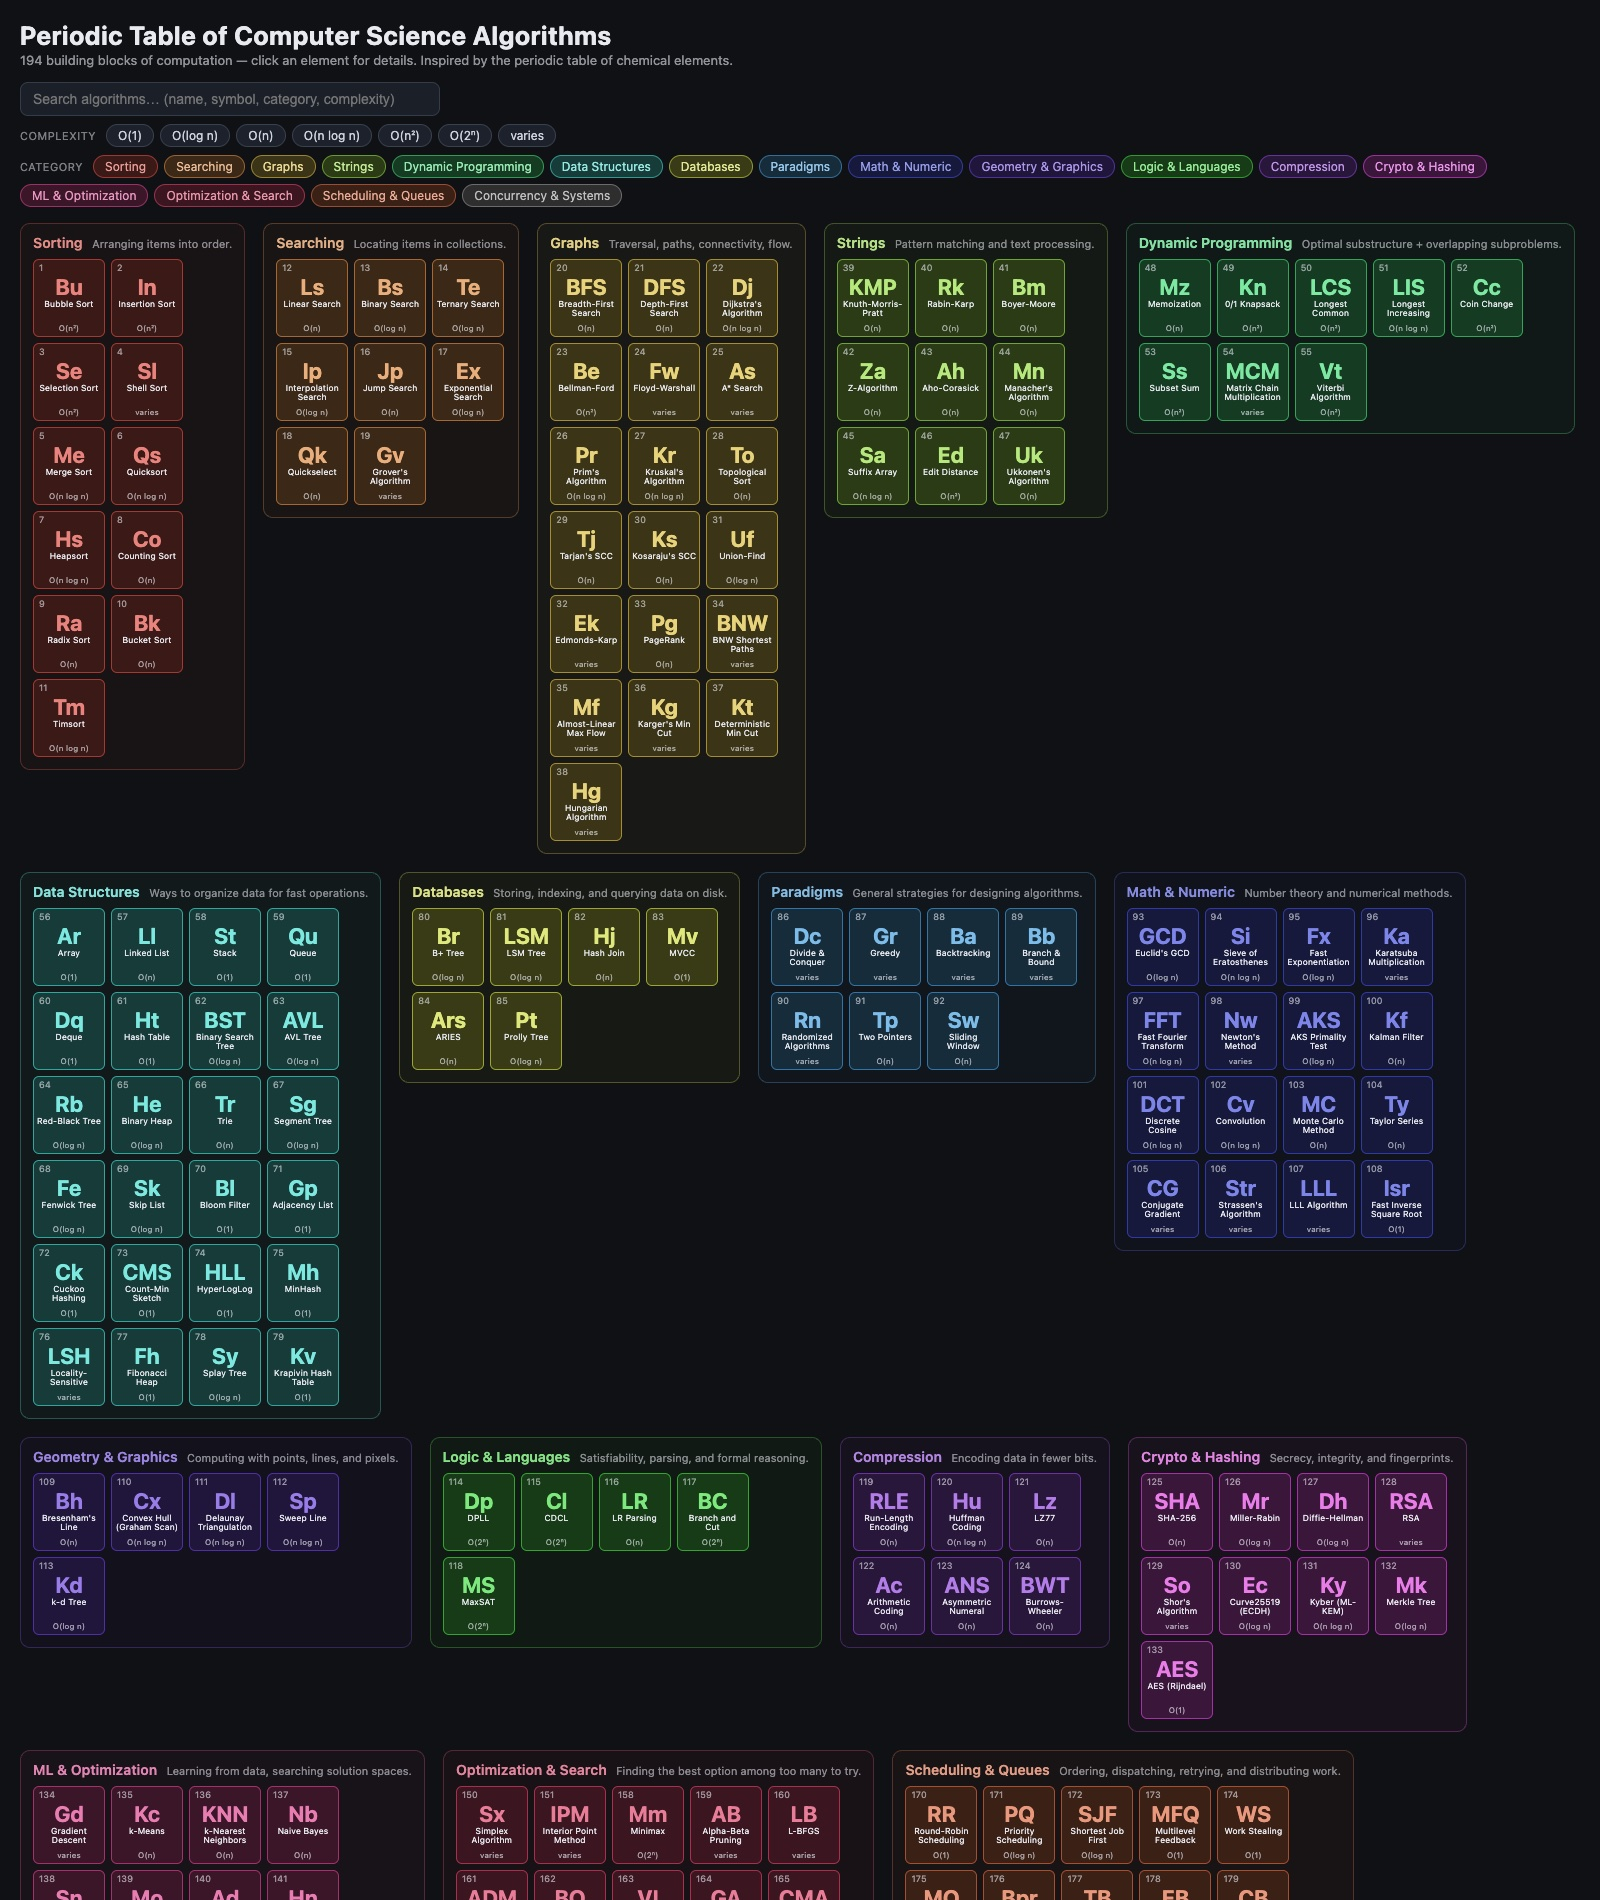
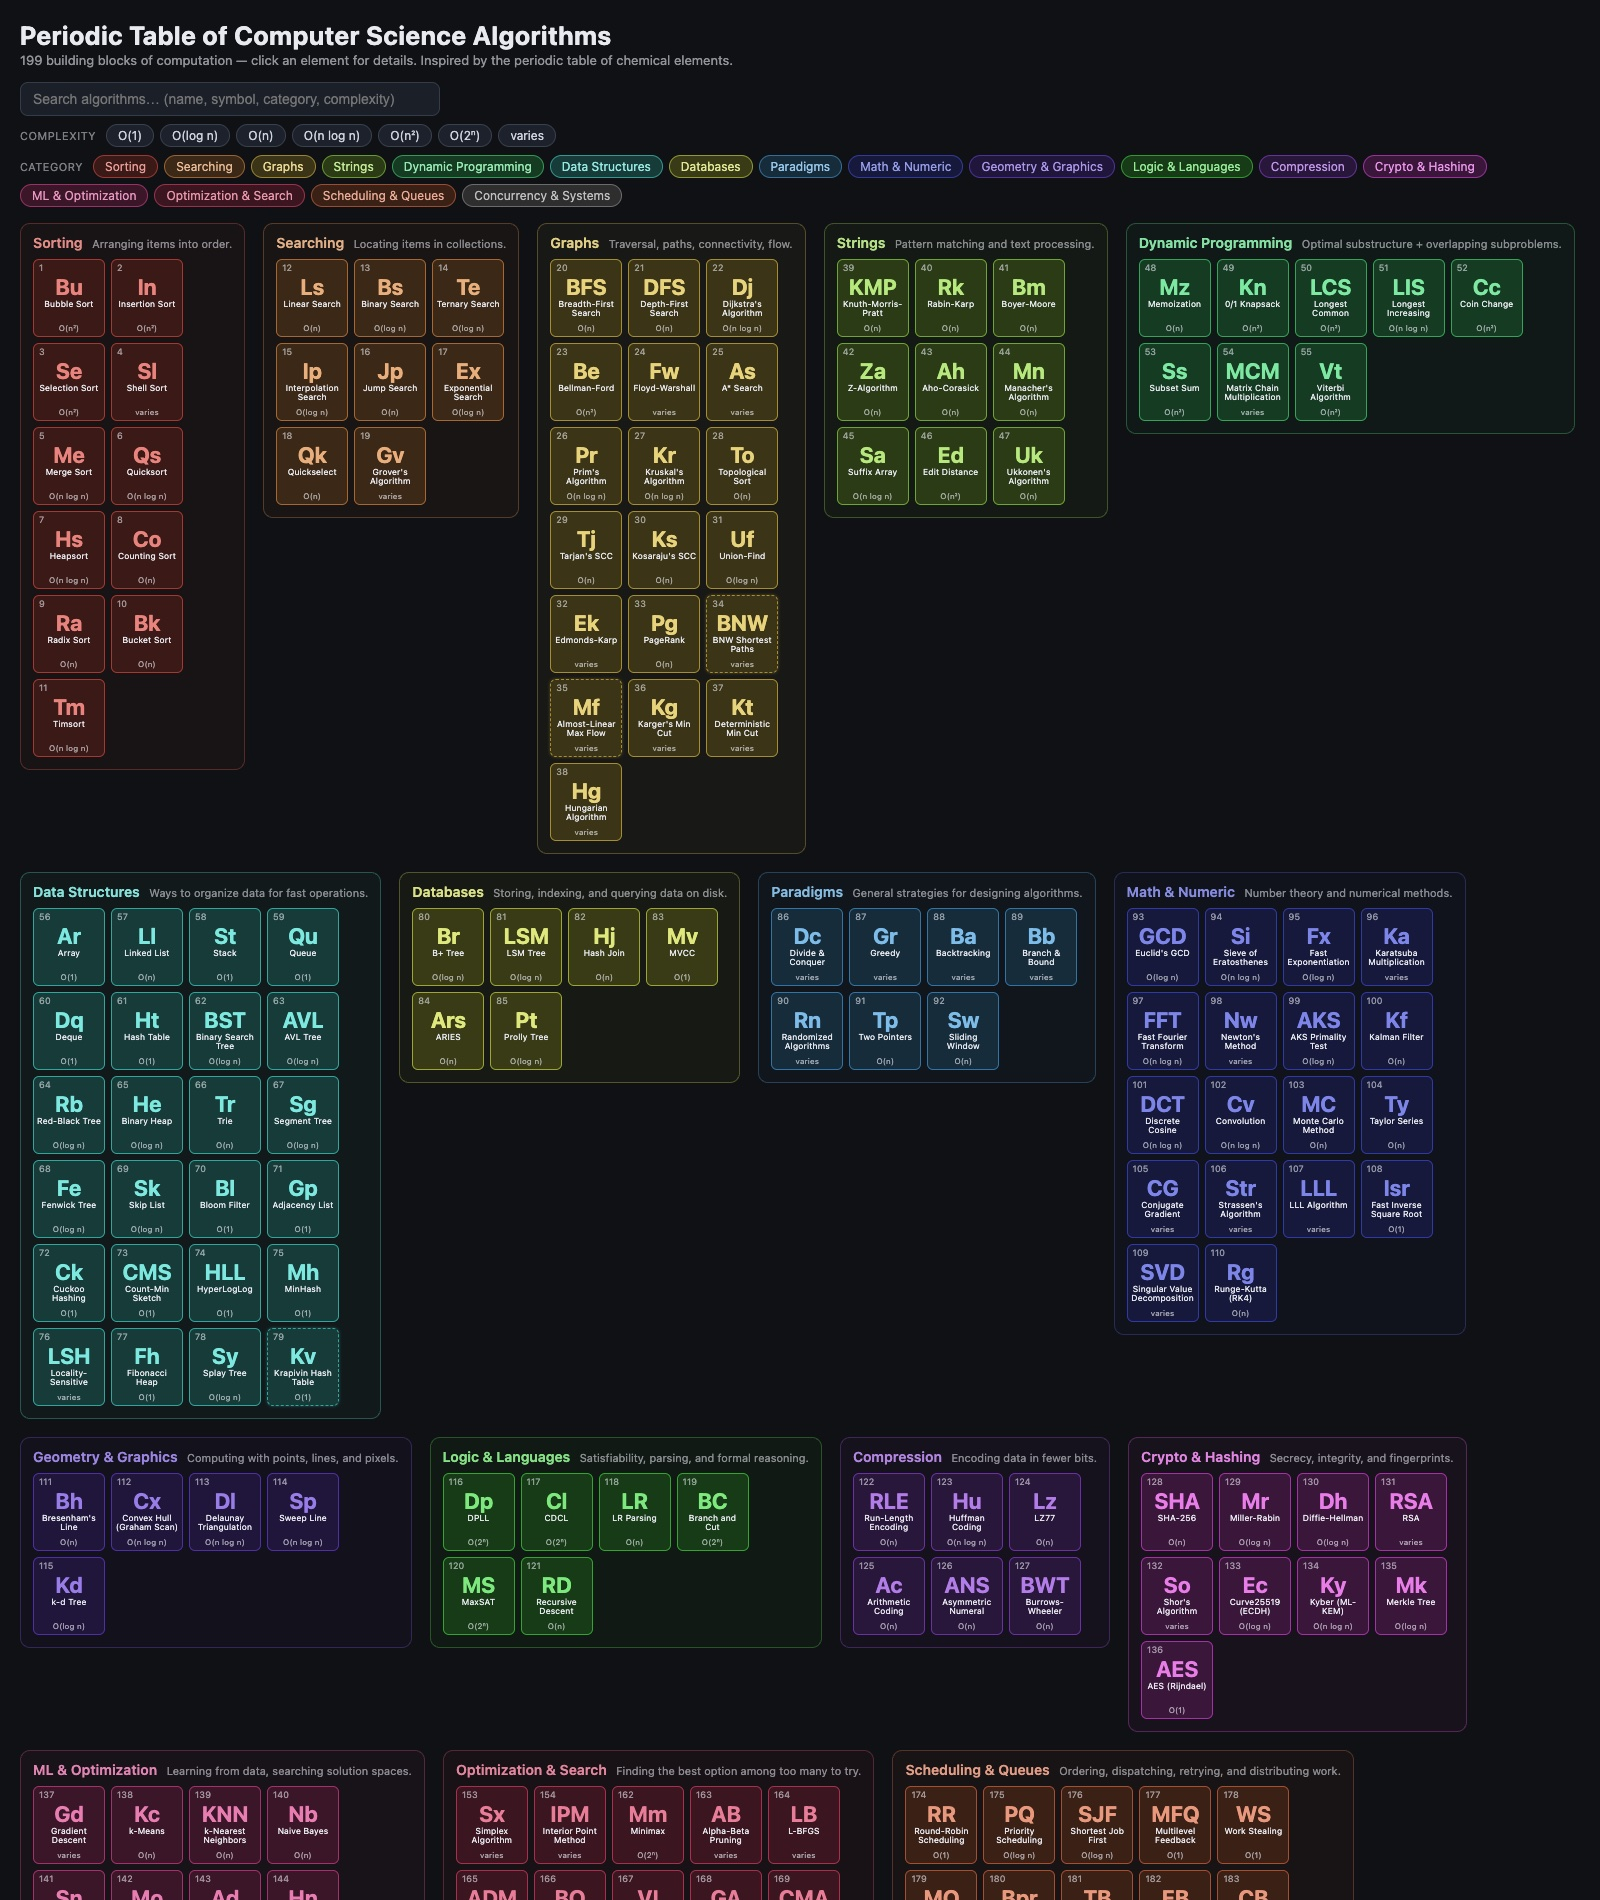
feat(periodic-table-cs): drop VS, add SVD/SVM/EM/RK4/RD/Gossip, synthetic styling for 2022+ elements

Changed region(s): [[0.6875, 0.6521, 0.8125, 0.7142], [0.3125, 0.8074, 0.375, 0.8695]]

diff --git a/education-periodic-table-computer-science-algorithms/index.html b/education-periodic-table-computer-science-algorithms/index.html
@@ -81,6 +81,18 @@ header .subtitle {
 .tile.dim { opacity: 0.18; }
 .tile.hit { box-shadow: 0 0 0 2px hsl(var(--hue) 90% 65%); }
 .tile.gray.hit { box-shadow: 0 0 0 2px hsl(0 0% 80%); }
+.tile.synthetic { border-style: dashed; animation: synthPulse 2.6s ease-in-out infinite; }
+.tile.synthetic.dim { animation: none; }
+@keyframes synthPulse {
+  0%, 100% { box-shadow: 0 0 3px hsl(var(--hue) 85% 60% / 0.3); }
+  50% { box-shadow: 0 0 11px hsl(var(--hue) 85% 62% / 0.75); }
+}
+.card-syn {
+  display: inline-block; margin: 4px 0 0 6px;
+  font-size: 11px; padding: 2px 8px; border-radius: 10px;
+  border: 1px dashed hsl(var(--hue) 70% 60%);
+  color: hsl(var(--hue) 75% 75%);
+}
 #controls { margin: 0 0 16px; display: flex; flex-direction: column; gap: 8px; }
 #search {
   background: #1a1f28;
@@ -211,7 +223,7 @@ header .subtitle {
       <div class="card-symbox"><span class="num"></span><span class="card-sym"></span></div>
       <div class="card-title">
         <h3></h3>
-        <span class="card-cat"></span>
+        <span class="card-cat"></span><span class="card-syn" hidden>⚛ synthetic — recent discovery, stability unproven</span>
       </div>
       <div class="card-nav">
         <button id="card-prev" title="Previous element">◀</button>
@@ -805,7 +817,7 @@ const ELEMENTS = [
     complexityClass: "O(n²)",
     description: "Finds the single most likely sequence of hidden states behind a sequence of observations: dynamic programming keeps, for each state at each step, the best path probability and a backpointer. Invented for decoding convolutional codes; it became the workhorse of HMMs in speech and biology.",
     uses: ["Convolutional code decoding (modems, deep-space links)", "HMM decoding in speech recognition and part-of-speech tagging", "Gene finding and sequence labeling"],
-    related: ["Mz", "Nb", "Ed"],
+    related: ["Mz", "Nb", "Ed", "EM"],
     pseudocode: "viterbi(obs, states):\n  V[0][s] = π(s)·emit(s, obs[0])\n  for t = 1 .. T-1, each state s:\n    V[t][s] = max over p of\n      V[t-1][p]·trans(p,s)·emit(s, obs[t])\n    back[t][s] = argmax p\n  follow backpointers from best final state",
   },
   {
@@ -1324,6 +1336,26 @@ const ELEMENTS = [
     pseudocode: "invSqrt(x):\n  i = bitsOf(x)\n  i = 0x5f3759df - (i >> 1)  // magic guess\n  y = floatOf(i)\n  y = y · (1.5 - 0.5·x·y·y)  // one Newton step\n  return y",
   },
   {
+    symbol: "SVD", name: "Singular Value Decomposition", category: "math",
+    year: "1873", inventor: "Beltrami & Jordan (numerics: Golub & Kahan 1965)",
+    time: { best: "O(mn²)", average: "O(mn²)", worst: "O(mn²)" }, space: "O(mn)",
+    complexityClass: "varies",
+    description: "Factors any matrix into rotation · scaling · rotation (UΣVᵀ), revealing its action as stretching along orthogonal axes ranked by importance. Truncating to the top k singular values gives the provably best low-rank approximation — which is PCA, latent semantic analysis, and the heart of the Netflix-prize recommenders, all in one decomposition.",
+    uses: ["PCA and dimensionality reduction", "Recommender systems via low-rank factorization", "Pseudo-inverse, least squares, and image compression"],
+    related: ["Pg", "CG", "Str"],
+    pseudocode: "svd(A):  // Golub-Kahan\n  bidiagonalize A with Householder\n    reflections\n  iterate QR-style on the bidiagonal\n    until off-diagonal ≈ 0\n  A = U · Σ · Vᵀ\nPCA: center data; top k right singular\n  vectors = principal components",
+  },
+  {
+    symbol: "Rg", name: "Runge-Kutta (RK4)", category: "math",
+    year: "1901", inventor: "Carl Runge, Wilhelm Kutta",
+    time: { best: "O(1) per step", average: "4 evals per step", worst: "O(1) per step" }, space: "O(1)",
+    complexityClass: "O(n)",
+    description: "Advances an ordinary differential equation by sampling the slope four times across each step — beginning, two midpoints, end — and blending them 1:2:2:1, achieving fourth-order accuracy where naive Euler gets first. The default workhorse for simulating anything that evolves: orbits, weather, circuits, game physics.",
+    uses: ["ODE integration in scientific computing", "Game and robotics physics engines", "Orbit propagation and chemical kinetics"],
+    related: ["Nw", "Ty", "Kf"],
+    pseudocode: "rk4(f, t, y, h):\n  k1 = f(t, y)\n  k2 = f(t + h/2, y + h·k1/2)\n  k3 = f(t + h/2, y + h·k2/2)\n  k4 = f(t + h, y + h·k3)\n  return y + (h/6)(k1 + 2k2 + 2k3 + k4)",
+  },
+  {
     symbol: "Bh", name: "Bresenham's Line", category: "geometry",
     year: "1962", inventor: "Jack Bresenham",
     time: { best: "O(n)", average: "O(n)", worst: "O(n)" }, space: "O(1)",
@@ -1422,6 +1454,16 @@ const ELEMENTS = [
     uses: ["Configuration and dependency optimization", "Planning with hard rules and soft preferences", "Probabilistic inference (MPE) and program repair"],
     related: ["Cl", "Dp", "Bb"],
     pseudocode: "core-guided MaxSAT:\n  while SAT solver says UNSAT(hard + soft):\n    core = extract unsat core\n    relax: allow one violation in core\n      (add blocking variables, bound them)\n  return model; violations = optimum",
+  },
+  {
+    symbol: "RD", name: "Recursive Descent Parsing", category: "logic",
+    year: "1960s", inventor: "ALGOL compiler lineage",
+    time: { best: "O(n)", average: "O(n)", worst: "O(n) (LL grammars)" }, space: "O(depth)",
+    complexityClass: "O(n)",
+    description: "One hand-written function per grammar rule, each consuming tokens and calling the functions for its sub-rules — the parser's structure is the grammar. Table-driven LR generators won the textbooks, but recursive descent won production: GCC, Clang, V8, and rustc all parse this way, because hand-written parsers give the best error messages.",
+    uses: ["Production compiler front ends (GCC, Clang, V8, rustc)", "JSON and config parsers", "Pratt parsing for expression precedence"],
+    related: ["LR", "St", "Ba"],
+    pseudocode: "parseExpr():\n  left = parseTerm()\n  while next is '+' or '-':\n    op = consume()\n    left = Node(op, left, parseTerm())\n  return left\n// one function per nonterminal;\n// call stack is the parse stack",
   },
   {
     symbol: "RLE", name: "Run-Length Encoding", category: "compression",
@@ -1587,7 +1629,7 @@ const ELEMENTS = [
     complexityClass: "O(n)",
     description: "Partitions points into k clusters by alternating two steps: assign each point to its nearest centroid, then move each centroid to its cluster's mean. Converges to a local optimum fast in practice; k-means++ seeding tames its initialization sensitivity.",
     uses: ["Customer segmentation", "Color quantization in images", "Vector-quantization codebooks", "Feature preprocessing"],
-    related: ["KNN", "Gd"],
+    related: ["KNN", "Gd", "EM"],
     pseudocode: "kmeans(X, k):\n  centroids = k seeded points\n  repeat until stable:\n    assign each x to nearest centroid\n    centroid = mean of its points",
   },
   {
@@ -1597,7 +1639,7 @@ const ELEMENTS = [
     complexityClass: "O(n)",
     description: "Classifies a point by majority vote among its k closest training examples — no training phase at all, just memory and a distance metric. KD-trees and approximate indexes (HNSW) make the neighbor search scale.",
     uses: ["Recommendation and similarity search", "Vector database retrieval (semantic search)", "Anomaly detection", "Baseline classifier"],
-    related: ["Kc", "Nb", "BST", "VS"],
+    related: ["Kc", "Nb", "BST", "Hn"],
     pseudocode: "knn(X, labels, q, k):\n  d = distances from q to all X\n  S = k smallest by d\n  return majority label in S",
   },
   {
@@ -1647,7 +1689,7 @@ const ELEMENTS = [
     complexityClass: "O(log n)",
     description: "Approximate nearest-neighbor search through a layered proximity graph — a skip list of graphs — descending from a sparse top layer to a dense bottom one by greedy walks. The index behind most vector databases.",
     uses: ["Vector databases for semantic search and RAG", "Recommendation and image-similarity retrieval", "Embedding deduplication"],
-    related: ["KNN", "Sk", "Gp", "IVF", "VS"],
+    related: ["KNN", "Sk", "Gp", "IVF", "LSH"],
     pseudocode: "search(q):\n  enter at top layer's entry point\n  for each layer, top → bottom:\n    greedy-walk to neighbor closest to q\n  at layer 0: beam search (ef candidates)\n  return k nearest found",
   },
   {
@@ -1667,7 +1709,7 @@ const ELEMENTS = [
     complexityClass: "O(n)",
     description: "Classifies by passing a weighted sum of features through the sigmoid, trained by maximizing likelihood with gradient methods. Interpretable coefficients, calibrated probabilities, and a convex loss — the baseline every fancier classifier must beat.",
     uses: ["Credit scoring and medical risk models", "Click-through-rate prediction", "Any binary classification baseline"],
-    related: ["Gd", "Nb", "Dt"],
+    related: ["Gd", "Nb", "Dt", "SVM"],
     pseudocode: "predict(x): p = σ(w·x + b)  // σ(z) = 1/(1+e⁻ᶻ)\ntrain:\n  repeat: w -= lr · Σ (p_i - y_i)·x_i",
   },
   {
@@ -1767,18 +1809,8 @@ const ELEMENTS = [
     complexityClass: "varies",
     description: "Approximate nearest-neighbor index that clusters vectors into coarse cells with k-means and stores each cell as an inverted list; a query finds its few nearest centroids and scans only those lists. Recall versus speed is one dial: how many lists to probe. The simpler, memory-lighter sibling of HNSW in pgvector and FAISS.",
     uses: ["Database-native vector indexes (pgvector IVFFlat)", "Billion-scale retrieval with product quantization (FAISS IVFADC)", "Tunable speed/recall trade-offs in embedding search"],
-    related: ["Hn", "Kc", "VS", "KNN"],
+    related: ["Hn", "Kc", "KNN", "LSH"],
     pseudocode: "build:\n  centroids = kmeans(vectors, nlists)\n  list[c] = vectors nearest to centroid c\nquery(q, nprobe):\n  C = nprobe nearest centroids to q\n  scan only lists in C; return top-k",
-  },
-  {
-    symbol: "VS", name: "Vector Similarity Search", category: "ml",
-    year: "2000s", inventor: "IR & ML lineage (TF-IDF to embeddings)",
-    time: { best: "varies", average: "varies by index", worst: "O(n·d) exact" }, space: "O(n·d)",
-    complexityClass: "varies",
-    description: "Represents items as high-dimensional embedding vectors and retrieves those closest to a query vector under cosine, L2, or inner-product distance. Exact search compares against every vector; ANN indexes like HNSW and IVFFlat trade recall for speed. The index only buys latency — retrieval quality (including cross-language matching) is determined by the embedding model.",
-    uses: ["Semantic search and RAG retrieval", "Recommendation and near-duplicate detection", "Image, audio, and code search over embeddings"],
-    related: ["KNN", "Hn", "IVF", "LSH"],
-    pseudocode: "index: v_i = embed(item_i); store in ANN index\nquery(text):\n  q = embed(text)\n  return index.nearest(q, k)\n    by cosine / L2 / inner product",
   },
   {
     symbol: "SGD", name: "Stochastic Gradient Descent", category: "ml",
@@ -1809,6 +1841,26 @@ const ELEMENTS = [
     uses: ["RLHF fine-tuning of LLMs", "Continuous control in robotics and locomotion", "Large-scale game agents (Dota 2's OpenAI Five)"],
     related: ["Ql", "Gd", "At", "VI"],
     pseudocode: "collect trajectories with old policy\ncompute advantages Â (GAE)\nfor K epochs:\n  ratio = π_new(a|s) / π_old(a|s)\n  L = min(ratio·Â,\n          clip(ratio, 1±ε)·Â)\n  ascend ∇L (plus value + entropy terms)",
+  },
+  {
+    symbol: "SVM", name: "Support Vector Machine", category: "ml",
+    year: "1992", inventor: "Boser, Guyon & Vapnik",
+    time: { best: "O(n²)", average: "O(n²)–O(n³) train", worst: "O(n³)" }, space: "O(n·d)",
+    complexityClass: "varies",
+    description: "Finds the separating hyperplane with the widest margin to the nearest points (the support vectors), and via the kernel trick does it in implicit feature spaces of enormous dimension without ever computing them. Backed by real generalization theory, it ruled machine learning for the decade before deep learning.",
+    uses: ["Text and image classification on modest datasets", "Bioinformatics (protein, gene classification)", "Any high-dimensional, small-sample classification"],
+    related: ["Lg", "KNN", "Gd"],
+    pseudocode: "maximize margin 2/‖w‖ s.t.\n  y_i(w·x_i + b) >= 1\ndual: maximize Σα - ½ΣΣ αα'yy'K(x,x')\n  kernel K replaces dot products\npredict(x): sign(Σ α_i y_i K(x_i, x) + b)",
+  },
+  {
+    symbol: "EM", name: "Expectation-Maximization", category: "ml",
+    year: "1977", inventor: "Dempster, Laird & Rubin",
+    time: { best: "O(n·k) per iter", average: "O(n·k) per iteration", worst: "varies" }, space: "O(n·k)",
+    complexityClass: "varies",
+    description: "Fits models with hidden variables by alternating two steps: E computes how likely each latent assignment is under current parameters, M re-fits parameters as if those soft assignments were data. Each round provably increases the likelihood. K-means is its hard-assignment special case; Baum-Welch is EM on HMMs.",
+    uses: ["Gaussian mixture models and soft clustering", "HMM training (Baum-Welch)", "Missing-data problems and topic models"],
+    related: ["Kc", "Nb", "Vt"],
+    pseudocode: "repeat until converged:\n  E-step: γ_ik = P(cluster k | x_i, θ)\n  M-step: θ = argmax expected\n    log-likelihood under γ\n  // GMM: update means, covs, weights\n  //   from soft assignments",
   },
   {
     symbol: "Mm", name: "Minimax", category: "optimization",
@@ -2180,6 +2232,16 @@ const ELEMENTS = [
     related: ["Mp", "Cd", "Rf"],
     pseudocode: "collection = stream of (data, time, ±1)\noperators (map, join, reduce, iterate)\n  consume and emit deltas only\njoin: index both sides by key;\n  new delta joins against stored state\niterate: timestamps gain loop counters\n  → fixpoints update incrementally",
   },
+  {
+    symbol: "Go", name: "Gossip Protocol", category: "systems",
+    year: "1987", inventor: "Alan Demers et al. (Xerox PARC)",
+    time: { best: "O(log n) rounds", average: "O(log n) rounds to spread", worst: "varies" }, space: "O(state)",
+    complexityClass: "O(log n)",
+    description: "Each node periodically picks random peers and exchanges what it knows, spreading information through the cluster like an epidemic — reaching everyone in O(log n) rounds with no coordinator and graceful tolerance of failures. How Cassandra and Dynamo track membership, and how Bitcoin transactions reach the network.",
+    uses: ["Cluster membership and failure detection (Cassandra, Consul/SWIM)", "Anti-entropy replica synchronization", "Transaction and block propagation in cryptocurrencies"],
+    related: ["Cd", "Ch", "Rf"],
+    pseudocode: "every T ms, each node:\n  peer = random member\n  send digest of my state\n  peer replies with what I'm missing;\n  I send what peer is missing\n// rumor dies down once 'everyone knows'",
+  },
 ];
 
 const DataTests = {
@@ -2208,7 +2270,7 @@ const DataTests = {
         if (r === el.symbol) errors.push(`${el.symbol}: self-reference in related`);
       }
     }
-    if (ELEMENTS.length < 194) errors.push(`only ${ELEMENTS.length} elements, want >= 194`);
+    if (ELEMENTS.length < 199) errors.push(`only ${ELEMENTS.length} elements, want >= 199`);
     const usedCats = new Set(ELEMENTS.map(e => e.category));
     for (const k of Object.keys(CATEGORIES)) {
       if (!usedCats.has(k)) errors.push(`category ${k} has no elements`);
@@ -2232,9 +2294,14 @@ ELEMENTS.forEach((el, i) => {
   (byCategory[el.category] ??= []).push(el);
 });
 
+function isSynthetic(el) {
+  const yr = parseInt(el.year, 10);
+  return !Number.isNaN(yr) && yr >= 2022;
+}
+
 function makeTile(el, cat) {
   const btn = document.createElement("button");
-  btn.className = "tile" + (cat.gray ? " gray" : "");
+  btn.className = "tile" + (cat.gray ? " gray" : "") + (isSynthetic(el) ? " synthetic" : "");
   btn.dataset.symbol = el.symbol;
   btn.style.setProperty("--hue", cat.hue);
   const num = document.createElement("span");
@@ -2313,6 +2380,7 @@ function openCard(el) {
   card.querySelector(".card-title h3").textContent = el.name;
   const catChip = card.querySelector(".card-cat");
   catChip.textContent = cat.name;
+  card.querySelector(".card-syn").hidden = !isSynthetic(el);
   card.querySelector('[data-f="year"]').textContent = el.year;
   card.querySelector('[data-f="inventor"]').textContent = el.inventor;
   card.querySelector('[data-f="best"]').textContent = el.time.best;